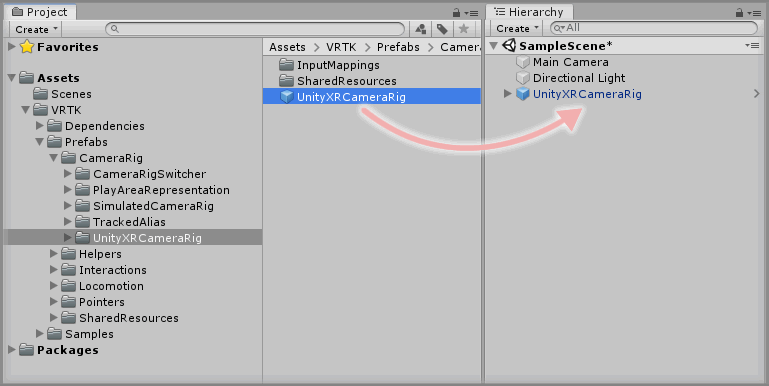
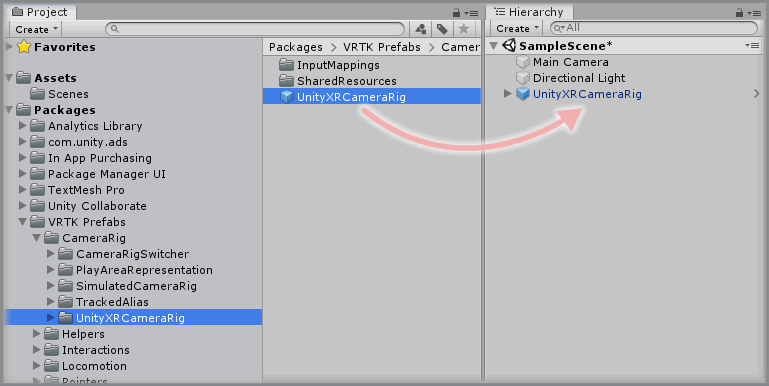
fix(HowToGuides): update adding UnityXR CameraRig guide
Update the guide to show the steps for needing the new VRTK Prefabs
repository.

Changed region(s): [[0.0, 0.1865, 0.3433, 0.9948], [0.3433, 0.0933, 0.6242, 0.1554], [0.0, 0.0933, 0.1248, 0.1554]]

diff --git a/Documentation/HowToGuides/CameraRigs/AddingTheUnityXRCameraRig/README.md b/Documentation/HowToGuides/CameraRigs/AddingTheUnityXRCameraRig/README.md
@@ -23,13 +23,13 @@ The outcome of this How-To Guide is to learn how to add the UnityXR CameraRig pr
 
 ## Prerequisites
 
-* Follow the [VRTK Getting Started] steps to add VRTK to your Unity project.
+* Add the [VRTK Prefabs] dependency to your Unity project.
 
 ## Let's Start
 
 ### Step 1
 
-Expand the VRTK directory in the Unity Project window until the `VRTK -> Prefabs -> CameraRig -> UnityXRCameraRig` directory is visible and select the `UnityXRCameraRig` directory so the contents are displayed.
+Expand the VRTK Prefabs Package directory in the Unity Project window until the `Packages -> VRTK Prefabs -> CameraRig -> UnityXRCameraRig` directory is visible and select the `UnityXRCameraRig` directory so the contents are displayed.
 
 ![Unity Project Window](assets/images/UnityProjectWindow.png)
 
@@ -61,4 +61,4 @@ Now you have a UnityXR CameraRig in your scene. If you play the Unity scene you 
 
 * [Adding A TrackedAlias](../AddingATrackedAlias/README.md)
 
-[VRTK Getting Started]: https://github.com/ExtendRealityLtd/VRTK#getting-started
+[VRTK Prefabs]: https://github.com/ExtendRealityLtd/VRTK.Prefabs#getting-started
